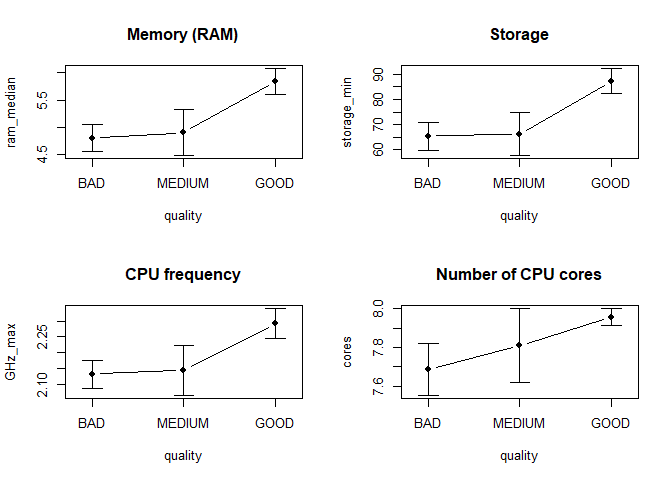
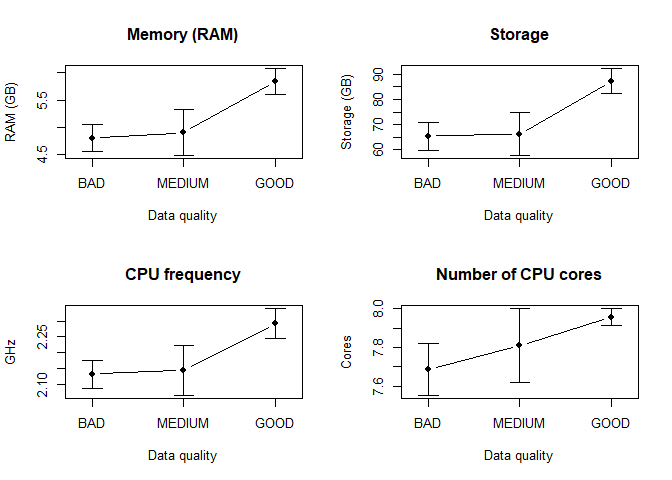
cleaning plot

diff --git a/smarpthone_quality.md b/smarpthone_quality.md
@@ -1238,10 +1238,10 @@ cores and GHz as a maybe, but not able to specify which one specifically
 
 ``` r
 par(mfrow=c(2,2))
-sciplot::lineplot.CI(quality, ram_median, data = data_reduced, main = "Memory (RAM)")
-sciplot::lineplot.CI(quality, storage_min, data = data_reduced, main = "Storage")
-sciplot::lineplot.CI(quality, GHz_max, data = data_reduced, main ="CPU frequency")
-sciplot::lineplot.CI(quality, cores, data = data_reduced, main = "Number of CPU cores")
+sciplot::lineplot.CI(quality, ram_median, data = data_reduced, main = "Memory (RAM)", xlab="Data quality", ylab="RAM (GB)")
+sciplot::lineplot.CI(quality, storage_min, data = data_reduced, main = "Storage", xlab="Data quality", ylab="Storage (GB)")
+sciplot::lineplot.CI(quality, GHz_max, data = data_reduced, main ="CPU frequency", xlab="Data quality", ylab="GHz")
+sciplot::lineplot.CI(quality, cores, data = data_reduced, main = "Number of CPU cores", xlab="Data quality", ylab="Cores")
 ```
 
 ![](smarpthone_quality_files/figure-gfm/plots-1.png)<!-- -->
